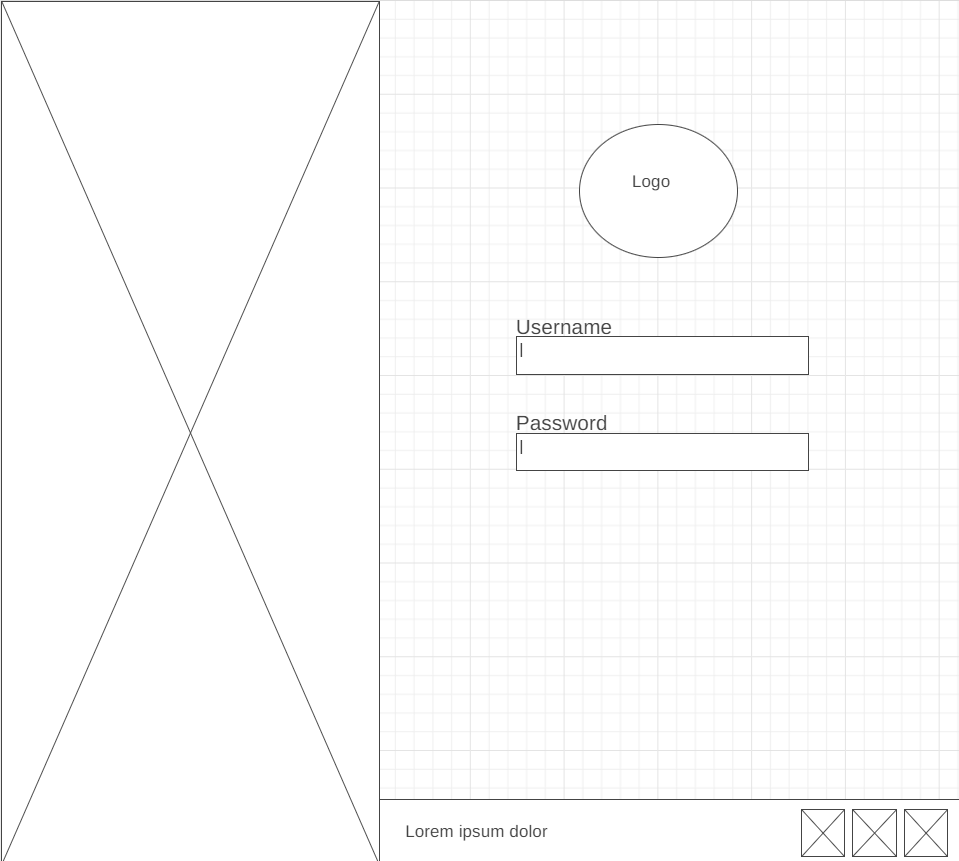
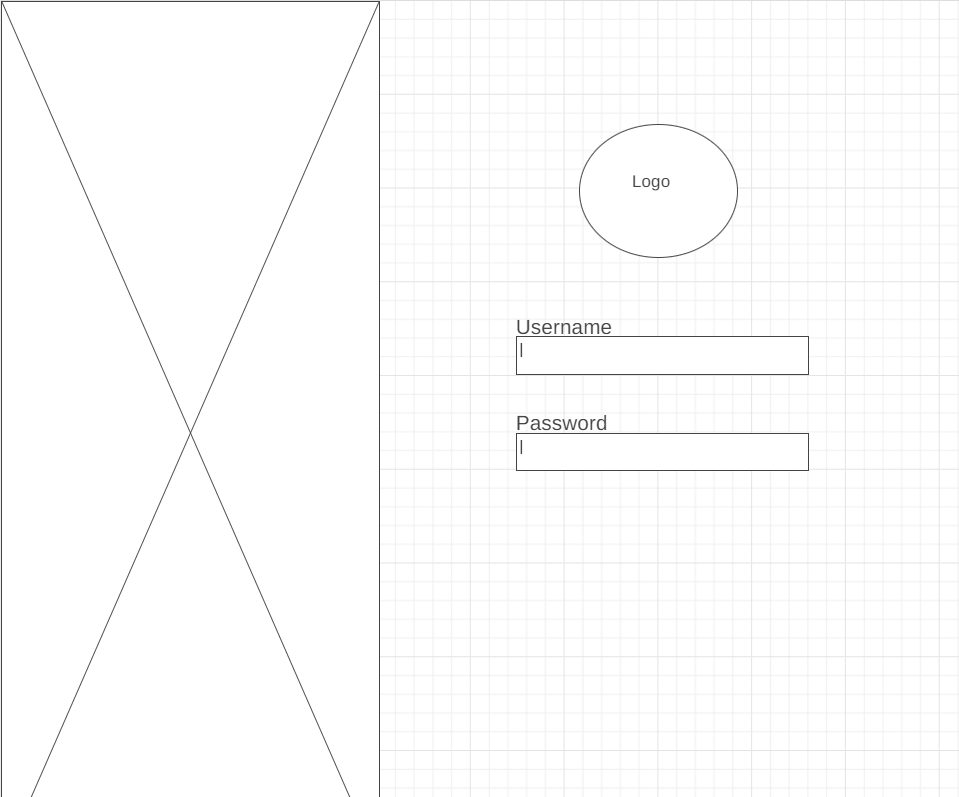
week11

diff --git a/mpwdd/index.html b/mpwdd/index.html
@@ -9,12 +9,24 @@
 </head>
 <body id="container"   >
     
-    <img id="one" src="images\Main 1.jpg" alt="Mainpic">
+    <img id="one" src="images\Main1.1.jpg" alt="Mainpic">
     <div id="two">
-        <p>Lorem ipsum dolor sit amet consectetur, adipisicing elit. Officia molestias tempore id eligendi recusandae fugit magnam saepe commodi tenetur atque reiciendis laborum, ducimus beatae alias accusantium repellendus animi, optio iusto!</p>
+        <div class="intro">
+            <img src="images\Logochico.png" alt="">
+            <h2>Log-in</h2>
+            <input class="input" type="email" name="Email" id="Email" placeholder="Email">
+            <input class="input" type="email" name="Password" id="Email" placeholder="Password">
+            <input type="checkbox" name="opt in" id="opt">
+        <span> Remember me</span>
+        </div>
+        <button> Log-in</button>
+        <button id="b2"> sign up</button>
+        
         
     </div>
-    <!-- <img id="two" src="images\Main2.jpg" alt="main2"> -->
+<footer>
+ 
+</footer>
 
 </body>
 </html>

diff --git a/mpwdd/style.css b/mpwdd/style.css
@@ -24,9 +24,50 @@
     background-size: cover;
     height: 740px;
     width: 100%;
+    
 
 }
 
+.input{
+    display:block;
+    height: 40px;
+    width: 100%;
+    margin-bottom: 10px;
+    border-radius: 5px;
+    border: grey solid 1px;
+    padding-left:  15px;
+}
+
+.intro{
+    text-align: center;
+    color: white;
+    margin-bottom: 10px;
+    margin-top: 10%;
+    margin-left: 25%;
+    margin-right: 50%;
+}
+
+
+
+
+button{
+    font-size: 20px;
+    margin-top: 5px;
+    color: white;
+    background-color: orange;
+    border:none;
+    border-radius: 5px;
+    padding: 10px 20px;
+    margin-left: 29%;
+}
+
+#b2{
+    margin: auto;
+}
+
+footer .social img{
+    padding-top: 15px;
+}
 
 
 

diff --git a/wwr/styles/style.css b/wwr/styles/style.css
@@ -231,6 +231,7 @@ footer p a:hover {
 }   
 
 footer .social img{
+    display: block;
     padding-top: 15px;
 }
    
